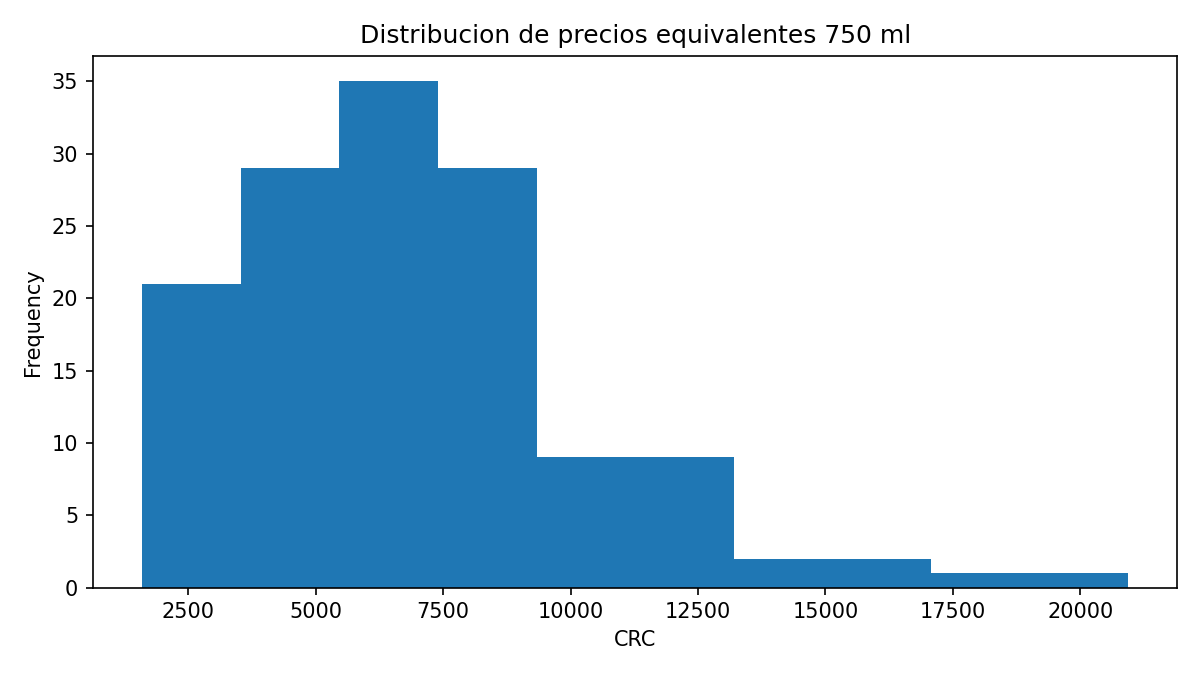
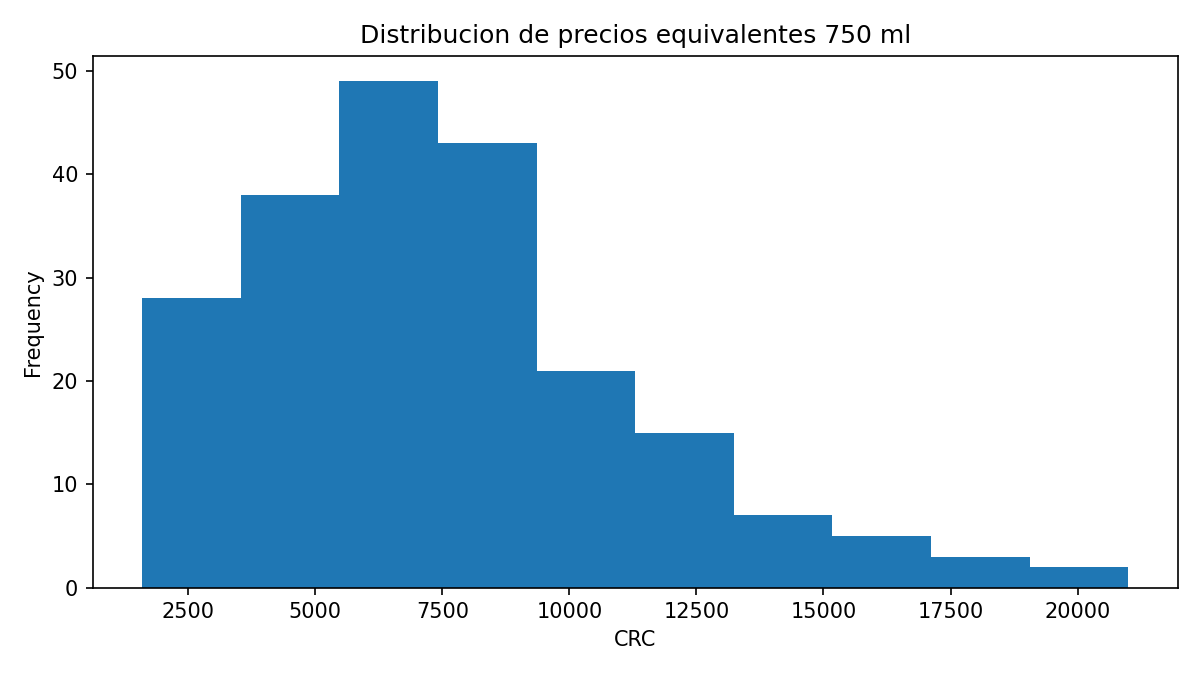
Correccion para pricesmart extraccion de precios
Correccion para pricesmart extraccion de precios

diff --git a/src/extractors/retail_scraper.py b/src/extractors/retail_scraper.py
@@ -15,6 +15,7 @@ from src.extractors.base import BaseExtractor
 from src.utils.logging_config import get_logger
 
 HEADERS = {'User-Agent': 'Mozilla/5.0 academic-research-tfm-vino-cr/1.0'}
+PLAYWRIGHT_WAIT_MS = 3000
 logger = get_logger(__name__)
 
 
@@ -53,6 +54,9 @@ class RetailWineScraper(BaseExtractor):
 
     def _scrape_source(self, source: RetailSource) -> list[dict]:
         """Download one category page and extract product rows from HTML."""
+        if 'pricesmart.com' in source.url.lower():
+            return self._scrape_pricesmart_source(source)
+
         response = requests.get(source.url, headers=HEADERS, timeout=30, verify=self.verify_ssl)
         response.raise_for_status()
         soup = BeautifulSoup(response.text, 'lxml')
@@ -61,6 +65,44 @@ class RetailWineScraper(BaseExtractor):
         rows = self._extract_json_ld_rows(soup, source)
         rows.extend(self._extract_text_rows(soup, source))
         return self._deduplicate_rows(rows)
+
+    def _scrape_pricesmart_source(self, source: RetailSource) -> list[dict]:
+        """Render PriceSmart pages because product cards are loaded by JavaScript."""
+        try:
+            from playwright.sync_api import Error as PlaywrightError
+            from playwright.sync_api import sync_playwright
+        except ImportError:
+            logger.warning('Playwright no esta instalado; no se puede renderizar PriceSmart: %s', source.url)
+            return []
+
+        try:
+            with sync_playwright() as playwright:
+                browser = playwright.chromium.launch(headless=True)
+                page = browser.new_page()
+                page.goto(source.url, wait_until='networkidle', timeout=60000)
+                page.wait_for_timeout(PLAYWRIGHT_WAIT_MS)
+                lines = page.locator('body').inner_text().splitlines()
+                browser.close()
+        except PlaywrightError as exc:
+            logger.warning('PriceSmart omitido por error de Playwright: %s | %s', source.url, exc)
+            return []
+
+        rows = []
+        for index, line in enumerate(lines):
+            if 'Vino' not in line:
+                continue
+            possible_price = self._first_price_line(lines[index + 1:index + 5])
+            if not possible_price:
+                continue
+            rows.append(self._build_row(source, line.strip(), possible_price))
+        return self._deduplicate_rows(rows)
+
+    def _first_price_line(self, lines: list[str]) -> str | None:
+        """Return the first nearby Costa Rican currency line in rendered text."""
+        for line in lines:
+            if re.search(r'(?:₡|CRC)\s*[0-9]', line):
+                return line
+        return None
 
     def _extract_json_ld_rows(self, soup: BeautifulSoup, source: RetailSource) -> list[dict]:
         """Extract product names and prices from JSON-LD script tags."""
@@ -176,6 +218,14 @@ class RetailWineScraper(BaseExtractor):
 
     def _parse_presentation_ml(self, product: str) -> float | None:
         """Infer bottle volume in milliliters from the product name."""
+        pack = re.search(r'(\d+)\s*Unidades\s*/\s*(\d+(?:[\.,]\d+)?)\s*(ml|mL|ML|l|L)\b', product, flags=re.I)
+        if pack:
+            units = int(pack.group(1))
+            value = float(pack.group(2).replace(',', '.'))
+            unit = pack.group(3).lower()
+            volume = value * 1000 if unit == 'l' else value
+            return units * volume
+
         match = re.search(r'(\d+(?:[\.,]\d+)?)\s*(ml|mL|ML|l|L|litro|litros)\b', product)
         if not match:
             # Standard wine listings often omit the size; 750 ml is the common

diff --git a/tests/test_retail_scraper.py b/tests/test_retail_scraper.py
@@ -9,6 +9,7 @@ def test_parse_price_costa_rican_thousands_format():
     assert scraper._parse_price('2,330') == 2330.0
     assert scraper._parse_price('12.280') == 12280.0
     assert scraper._parse_price('₡ 2.330') == 2330.0
+    assert scraper._parse_price('₡ 12.280') == 12280.0
 
 
 def test_parse_price_decimal_format_when_decimal_part_is_not_three_digits():
@@ -18,3 +19,10 @@ def test_parse_price_decimal_format_when_decimal_part_is_not_three_digits():
     assert scraper._parse_price('2330.50') == 2330.50
     assert scraper._parse_price('2.330,50') == 2330.50
     assert scraper._parse_price('2,330.50') == 2330.50
+
+
+def test_parse_pricesmart_pack_presentation_as_total_volume():
+    """PriceSmart pack labels should be converted into total milliliters."""
+    scraper = RetailWineScraper([RetailSource('retailer', 'categoria', 'https://example.com')])
+
+    assert scraper._parse_presentation_ml('Vino Ejemplo 6 Unidades / 750 mL') == 4500.0